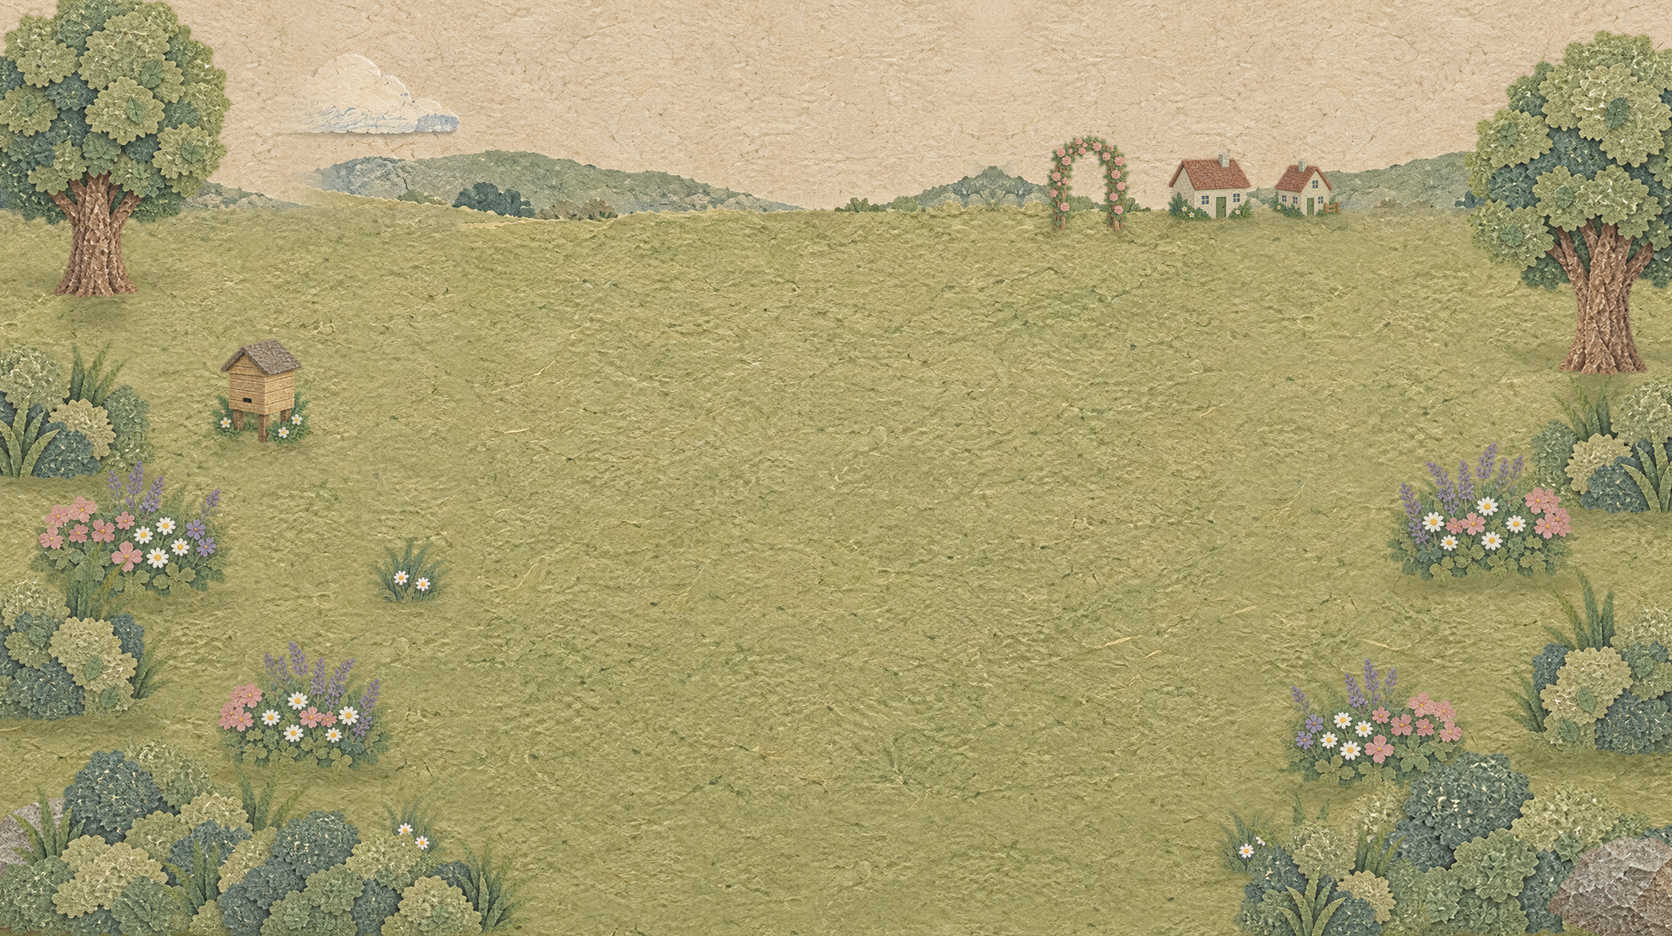
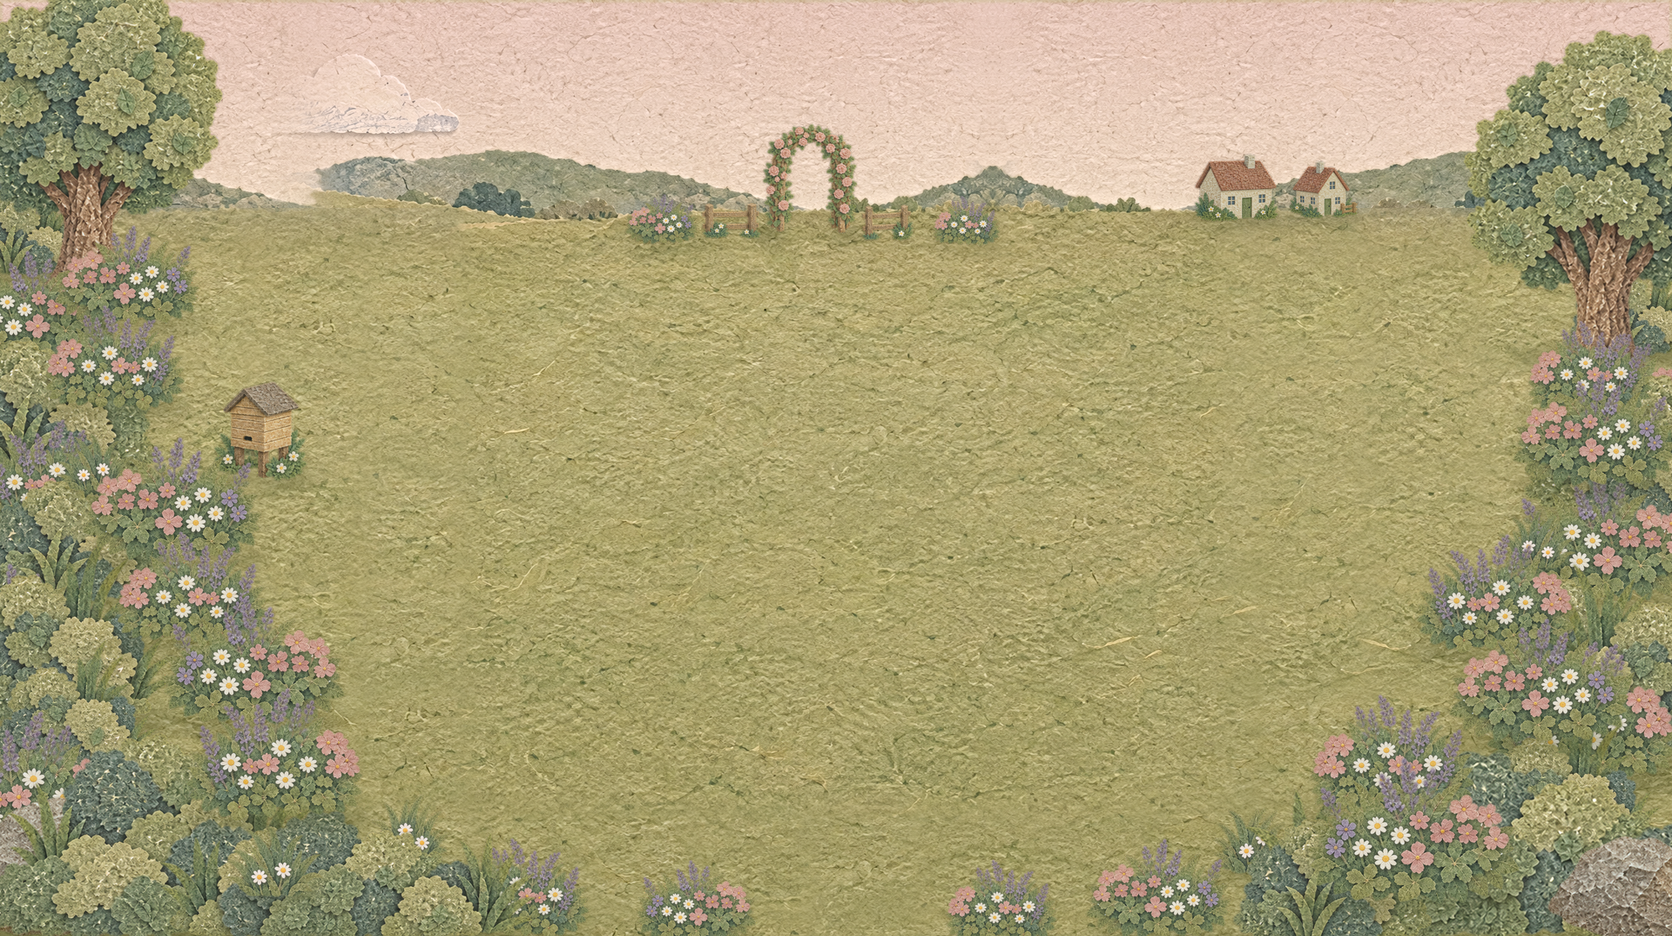
1월드 챕터 배경: 지침 2판 (하늘 색, 가장자리 둑)

diff --git a/flutter_bootstrap.js b/flutter_bootstrap.js
@@ -37,6 +37,6 @@ _flutter.buildConfig = {"engineRevision":"6c0baaebf70e0148f485f27d5616b3d3382da7
 
 _flutter.loader.load({
   serviceWorkerSettings: {
-    serviceWorkerVersion: "2152751519" /* Flutter's service worker is deprecated and will be removed in a future Flutter release. */
+    serviceWorkerVersion: "1264314861" /* Flutter's service worker is deprecated and will be removed in a future Flutter release. */
   }
 });
